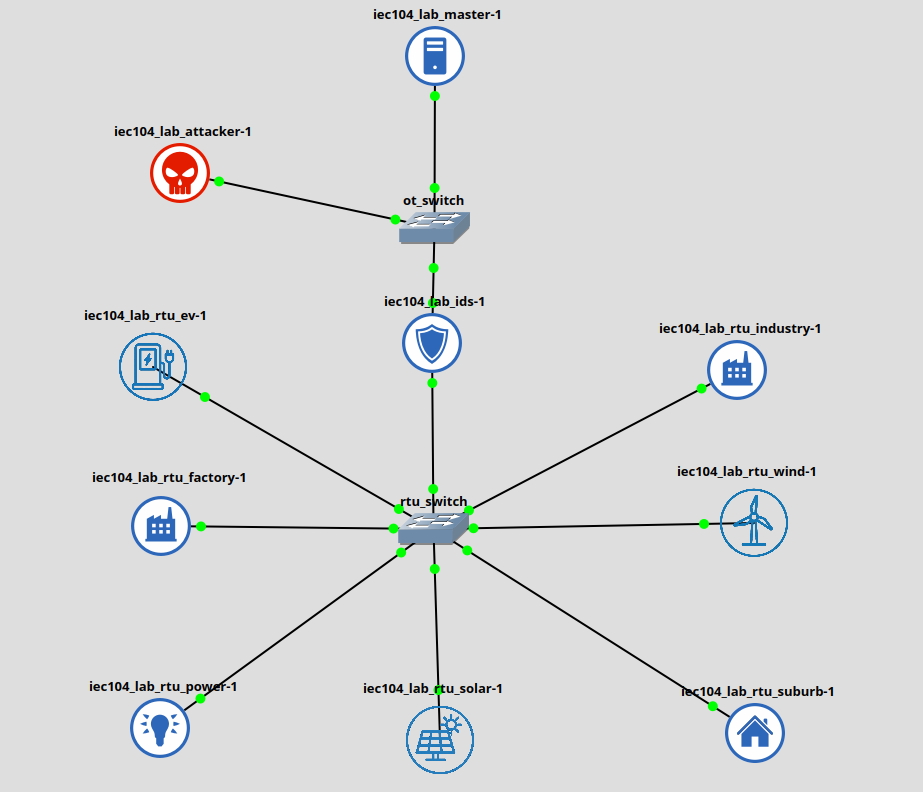
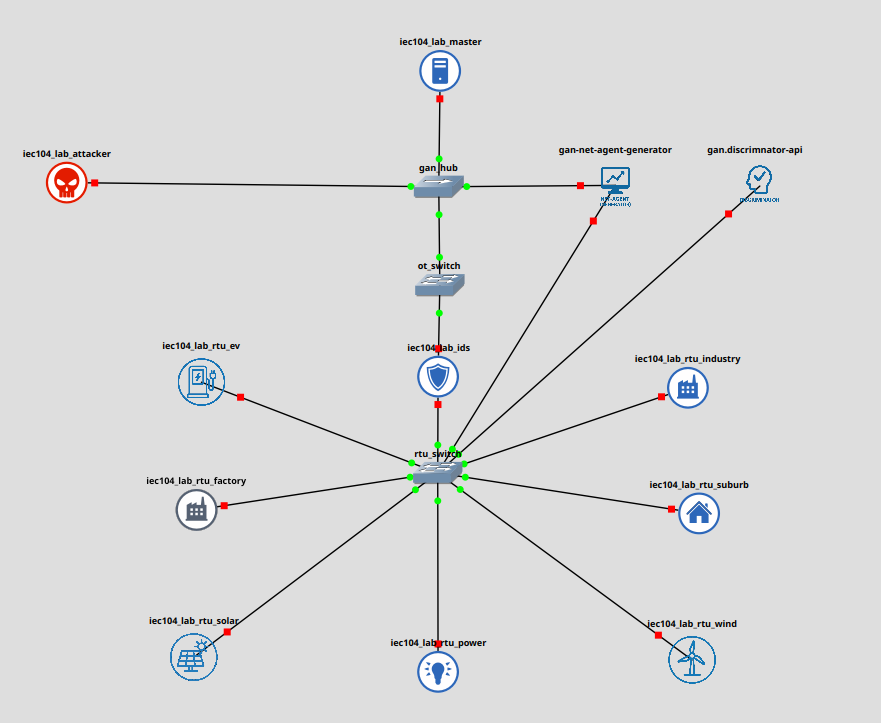
Update docs (import guides, topology) and remove old portable project

diff --git a/iec104_lab/docs/import_compose.md b/iec104_lab/docs/import_compose.md
@@ -1,72 +1,123 @@
-# Importing the Lab into GNS3 via Docker Compose
+# Importing the Lab into GNS3 via **Docker Compose**
+
+This guide explains how to build and register **all** containers — including the GAN services **net-agent** and **disc-api** — and then import them into **GNS3** using the **same procedure** adopted for the other nodes (RTUs, Master, IDS, Attacker).
+
+---
 
 ## Prerequisites
 
-* **GNS3 ≥ 2.2** with Docker integration enabled  
-* **Docker Engine ≥ 24** plus the `docker compose` plugin  
-* ~**8 GB** of free RAM and **6 GB** of disk space
+* **GNS3 ≥ 2.2** with Docker integration enabled
+* **Docker Engine ≥ 24** and the `docker compose` plugin
+* \~**8 GB RAM**, **6 GB** disk space (minimum)
+* (Optional) **GNS3 VM** configured with access to your local Docker daemon
 
-## 1 – Build the images
+---
 
-    cd iec104_lab
-    docker-compose build --no-cache
+## 1 — Build the images (Compose)
 
-## 2 – Register the Docker images with GNS3
+Build IEC‑104 lab nodes **and** GAN nodes.
 
-1. Launch **GNS3** and open **Edit ▸ Preferences ▸ Docker**.  
-2. Click **New** for each image you have just built.  
-3. Select **Run this Docker container on my local computer**  
-   (the lab is designed for local execution, though you can use the **GNS3 VM** if preferred).  
-4. Choose **Existing image** and pick the relevant tag from the list.  
-5. Accept or edit the suggested name, then click **Next**.  
-6. **Adapters**: set **1** for every container except **ids**, which requires **2 interfaces**  
-   (*eth0* → **rtu_switch**, *eth1* → **ot_switch**).  
-7. Leave **Start command** blank and click **Next**.  
-8. Keep **Console type** as **Telnet**, then **Next** and **Finish** without adding environment variables.  
+```bash
+# Build IEC‑104 Digital Twin images
+cd iec104_lab
+docker-compose build --no-cache
 
-Repeat these steps for each container.
+# Build GAN services (NET‑AGENT, DISC‑API)
+cd ../gan-ics
+docker-compose build --no-cache
+```
 
-> **Tip:** When you have finished, restart GNS3 (and the GNS3 VM, if used) so the new nodes appear in the device list.
+> ✅ After this step, all images (rtu\_\*, master, ids, attacker, **net-agent**, **disc-api**) are available locally and can be registered in GNS3.
 
-## 3 – Build the topology
+---
 
-1. In the left-hand panel, click **End devices** and drag the nodes onto the workspace.  
-2. Connect the nodes following the diagram in `iec104_lab/docs/topology.png`.  
-3. **IDS**: connect **eth0** to **rtu_switch** and **eth1** to **ot_switch**.
+## 2 — Register images in GNS3 (same procedure for **all** nodes)
 
-## 4 – Start-up and testing
+1. Open **GNS3** → **Edit ▸ Preferences ▸ Docker** → **New**.
+2. Choose **Existing image** and select the tag you built.
+3. Select **Run this Docker container on my local computer**.
+4. **Adapters**: set **1** for every container **except `ids` (2 adapters)**.
 
-After wiring is complete, save the project and press **▶ Start**.  
-Within a few seconds all containers should be online:
+   * `ids:eth0` → **rtu\_switch**
+   * `ids:eth1` → **ot\_switch**
+5. Leave **Start command** empty. Keep **Console** = **Telnet**.
+6. Finish the wizard.
 
-    # Open a shell in an RTU
-    docker exec -it  "node name" /bin/bash
+> ℹ **NET‑AGENT** and **DISC‑API** follow the **exact same registration flow** as the RTUs/Master/Attacker: select the existing image and complete the wizard. No special handling is required.
 
-     # Launch the attack script
-    docker exec -it attacker ./attack.sh
-    
-    # Stream Suricata logs live
-    tail -f /var/log/suricata/eve.json
+---
 
-## Launching Attack Scenarios
+## 3 — Build the topology
 
-The **attacker** container provides the control script `/attack.sh`,  
-which guides you through the available IEC-104 penetration tests.
+1. From the device list, drag nodes to the workspace (RTUs, Master, IDS, Attacker, **net-agent**, **disc-api**).
+2. Wire links according to `iec104_lab/docs/topology.png`.
+3. Ensure `ids` has **two** links as noted above.
+4. Place **net-agent** and **disc-api** on the monitoring/management network segment used by your lab.
 
-    docker compose exec attacker /attack.sh
-    # or, if the container name differs:
-    docker exec -it attacker_node /attack.sh
+> Tip: keep a consistent naming convention (e.g. `rtu_power`, `rtu_factory`, `net-agent`, `disc-api`).
 
-### Menu options
+---
 
-| Option | Scenario            | Operational details |
-|--------|---------------------|---------------------|
-| **1 – IDS test-suite** | *Synthetic attacks* | Generates three demonstration flows (lateral movement, external intrusion, SYN-flood) to validate the installed IDS/IPS rules. |
-| **2 – Automatic replay** | *Dataset playback* | Sequentially replays — preserving the original timing — **all** `*.pcap` files located in **/data**. The engine is dataset-agnostic: any **IEC-104 over TCP** capture placed in `/data` is detected and injected, with no constraints on file names or folder structure. |
+## 4 — Start-up & sanity tests
 
-### Runtime parameters
+After wiring is complete, save the project and press **▶ Start**.
 
-| Variable        | Default | Purpose |
-|-----------------|---------|---------|
-| `DELAY_FACTOR`  | `1.0`   | Timing scale for the replay (`0.5` = twice as fast, `2` = half-speed). |
-| `IFACE`         | `eth0`  | Network interface used by Scapy to transmit the frames. |
+```bash
+# Open a shell inside a node
+docker exec -it "node name" /bin/bash
+
+# Launch the attack suite
+docker exec -it attacker ./attack.sh
+
+# Stream Suricata logs
+docker exec -it ids bash -lc 'tail -f /var/log/suricata/eve.json'
+```
+
+**Monitor NET‑AGENT classifications** (real‑time, JSONL):
+
+```bash
+docker exec -it "net-agent" bash -lc 'ls -lh /data; tail -F /data/flows.jsonl 2>/dev/null | grep -a --line-buffered "flow_id"'
+```
+
+**Enable the generator** in NET‑AGENT (feature‑mode):
+
+```yaml
+# in the node env (Compose template or GNS3 Docker template)
+environment:
+  - GEN_ENABLED_=1
+```
+
+---
+
+## 5 — Launch attack scenarios
+
+The **attacker** node provides `/attack.sh` with prebuilt IEC‑104 tests:
+
+```bash
+docker compose exec attacker /attack.sh
+# or (depending on node name):
+docker exec -it attacker_node /attack.sh
+```
+
+**Menu options**
+
+| Option               | Scenario          | Details                                                 |
+| -------------------- | ----------------- | ------------------------------------------------------- |
+| 1 — IDS test‑suite   | Synthetic attacks | Lateral movement, external intrusion, SYN‑flood         |
+| 2 — Automatic replay | Dataset playback  | Replays every `*.pcap` in `/data` preserving timestamps |
+
+**Runtime parameters**
+
+| Variable       | Default | Purpose                                |
+| -------------- | ------- | -------------------------------------- |
+| `DELAY_FACTOR` | `1.0`   | Timing scale (0.5=2× speed, 2=½ speed) |
+| `IFACE`        | `eth0`  | Scapy transmit interface               |
+
+---
+
+## 6 — Troubleshooting
+
+* **Images not listed in GNS3** → restart GNS3 (and GNS3 VM, if used) after building.
+* **Wrong number of adapters** → edit node template and set adapters as described.
+* **No logs from NET‑AGENT** → verify container is running and `/data/flows.jsonl` exists; check env `GEN_` if you expect synthetic flows.
+* **IDS not capturing** → confirm mirror link wiring and that Suricata is reading the correct interface.

diff --git a/iec104_lab/docs/import_portable.md b/iec104_lab/docs/import_portable.md
@@ -1,41 +1,77 @@
-## 2 — Import into GNS3 via portable project
+# Importing the Lab into GNS3 via **Portable Project**
 
-1. Launch **GNS3** and create a **New Project** (for example *iec104_lab*).  
-2. Navigate to **File ▸ Import portable project…**  
-3. Select the freshly downloaded `iec104_lab\project_portable\Digital_twin_iec104.portable` and click **Open**.  
-4. Choose (or confirm) the destination folder for the project.  
-5. Click the **Start** (►) button in the toolbar to power on all nodes.
+This guide explains how to import the IEC‑104 Digital Twin laboratory as a **portable GNS3 project**, including all base images and topology, for rapid deployment. This method is ideal for demos, training environments, or when distributing the lab to colleagues.
 
-> ✅ Within seconds, the containers will be online and the links will turn green.
+---
 
-## 3 — Working with the containers
+## 1 — Portable project overview
 
-| Task | Command |
-|------|---------|
-| Open a shell inside an RTU | `docker exec -it  "node name" /bin/bash` |
-| Run the attack script      | ` docker exec -it attacker ./attack.sh`  |
-| Open a shell in an RTU     | `docker exec -it  "ids" /bin/bash`       |
-| Stream Suricata logs live  | `tail -f /var/log/suricata/eve.json`     |
+A portable project is a single archive (`.portable`) containing:
 
-## Launching Attack Scenarios
+* Node templates and configuration
+* Topology wiring
+* Optionally: Docker images (embedded)
 
-The **attacker** container provides the control script `/attack.sh`,  
-which guides you through the available IEC-104 penetration tests.
+Example file: `iec104_lab/project_portable/Digital_twin_iec104.portable`
 
-    docker compose exec attacker /attack.sh
-    # or, if the container name differs:
-    docker exec -it attacker_node /attack.sh
+---
 
-### Menu options
+## 2 — Import into GNS3
 
-| Option | Scenario            | Operational details |
-|--------|---------------------|---------------------|
-| **1 – IDS test-suite** | *Synthetic attacks* | Generates three demonstration flows (lateral movement, external intrusion, SYN-flood) to validate the installed IDS/IPS rules. |
-| **2 – Automatic replay** | *Dataset playback* | Sequentially replays — preserving the original timing — **all** `*.pcap` files located in **/data**. The engine is dataset-agnostic: any **IEC-104 over TCP** capture placed in `/data` is detected and injected, with no constraints on file names or folder structure. |
+1. Launch **GNS3**.
+2. Go to **File ▸ Import portable project…**.
+3. Select the portable archive (`.portable`) provided.
+4. Choose a destination folder for the project.
+5. Finish the wizard → the full topology and nodes appear in your workspace.
 
-### Runtime parameters
+> ✅ Within seconds, the entire lab (RTUs, Master, IDS, Attacker, plus GAN services **net-agent** and **disc-api**) is imported.
 
-| Variable        | Default | Purpose |
-|-----------------|---------|---------|
-| `DELAY_FACTOR`  | `1.0`   | Timing scale for the replay (`0.5` = twice as fast, `2` = half-speed). |
-| `IFACE`         | `eth0`  | Network interface used by Scapy to transmit the frames. |
+---
+
+## 3 — Post‑import checks
+
+* Verify node names and links match the intended topology (`iec104_lab/docs/topology.png`).
+* Ensure **IDS** has 2 adapters: `eth0 → rtu_switch`, `eth1 → ot_switch`.
+* If **net-agent** and **disc-api** are included, they behave like any other node. Use the same procedure as for RTUs or Master.
+
+---
+
+## 4 — Operating nodes
+
+Open shells and execute commands directly:
+
+```bash
+# Open a shell in any node
+docker exec -it <node> /bin/bash
+
+# Launch the attack suite
+docker exec -it attacker ./attack.sh
+
+# Monitor Suricata logs
+docker exec -it ids bash -lc 'tail -f /var/log/suricata/eve.json'
+```
+
+**Monitor NET‑AGENT classifications**:
+
+```bash
+docker exec -it net-agent bash -lc 'ls -lh /data; tail -F /data/flows.jsonl 2>/dev/null | grep -a --line-buffered "flow_id"'
+```
+
+**Enable the NET‑AGENT generator**:
+
+```yaml
+environment:
+  - GEN_ENABLED_=1
+```
+
+Set this variable in the container template (or compose definition) and restart the node.
+
+---
+
+## 5 — Troubleshooting
+
+* **Missing images**: If images were not embedded in the portable file, GNS3 prompts you to map them. Build them beforehand via Compose.
+* **Adapters mismatch**: Edit the node template to adjust interface count.
+* **Logs not visible**: Use `docker logs -f <node>` for debugging. Check NET‑AGENT `/data/flows.jsonl` for real‑time flow analysis.
+
+---
